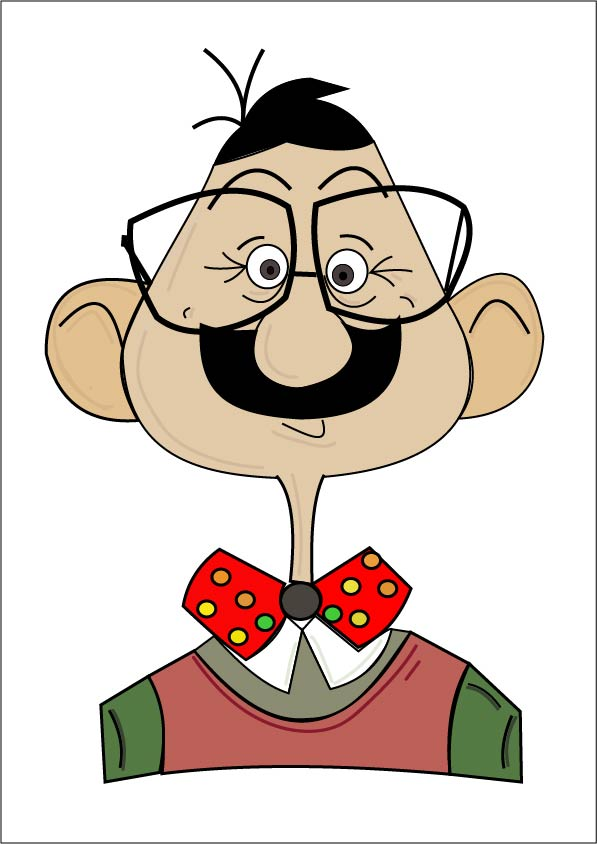
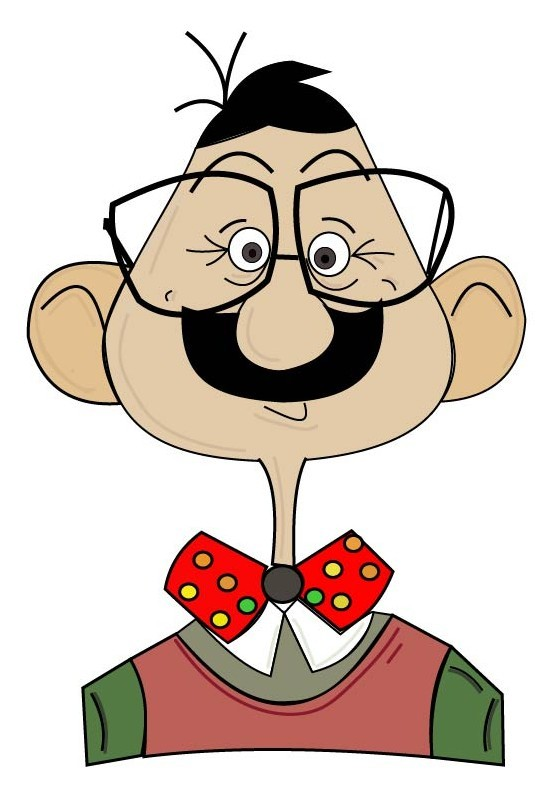
🎨 updated art works

Changed region(s): [[0.0, 0.0, 1.0, 1.0], [0.3656, 0.437, 0.6398, 0.5306], [0.3351, 0.437, 0.3656, 0.4682]]

diff --git a/src/Pages/ArtPage/artData.js b/src/Pages/ArtPage/artData.js
@@ -43,7 +43,7 @@ const artImages = [
   },
   {
     id: 10,
-    imgUrl: require("../../Assets/hire.png").default,
+    imgUrl: require("../../Assets/face.png").default,
   },
   {
     id: 11,
@@ -52,6 +52,11 @@ const artImages = [
   {
     id: 12,
     imgUrl: require("../../Assets/roadmap.png").default,
+  },
+
+  {
+    id: 13,
+    imgUrl: require("../../Assets/hire.png").default,
   },
 ];
 
